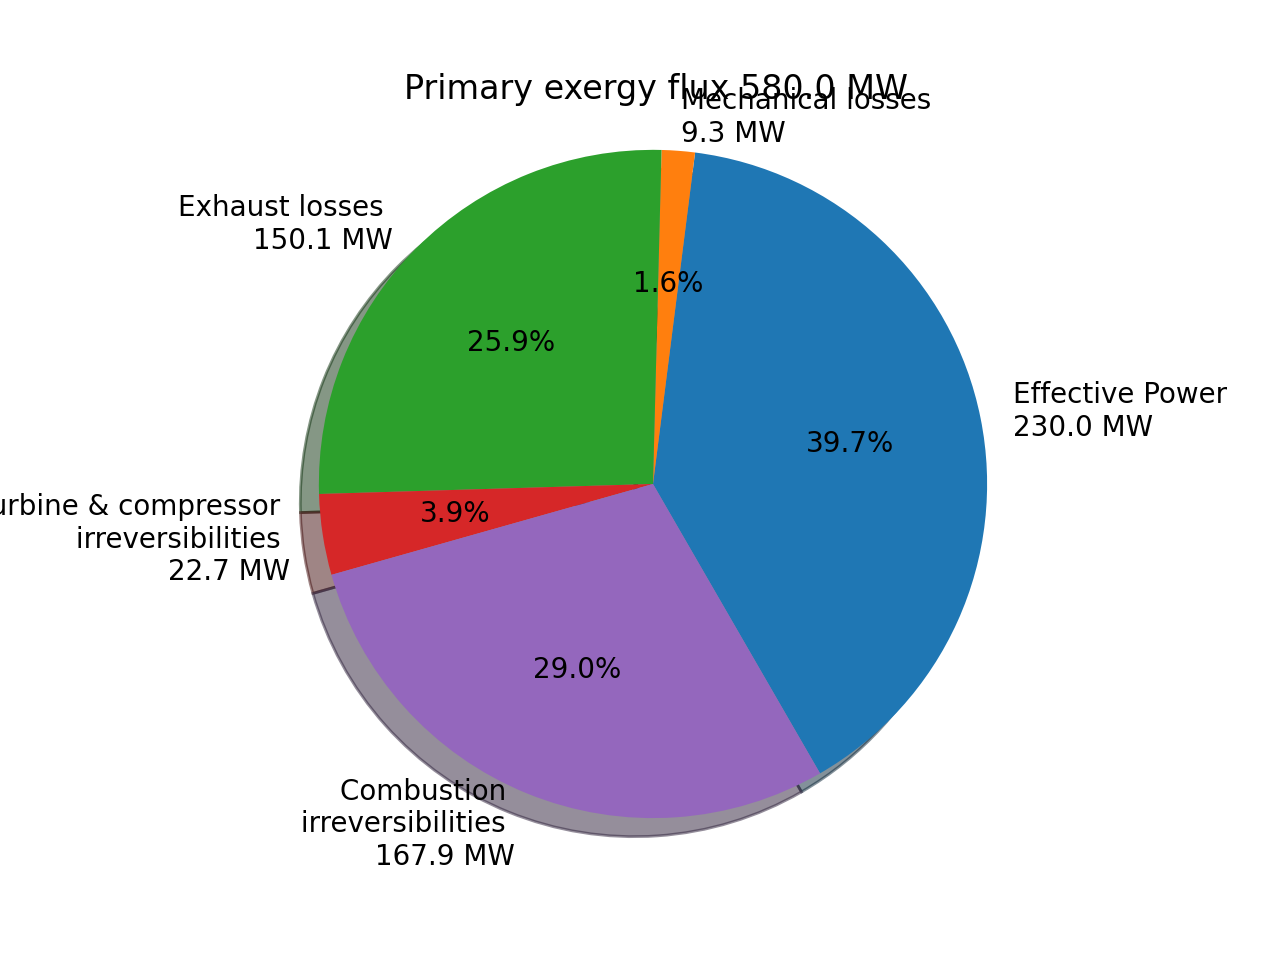
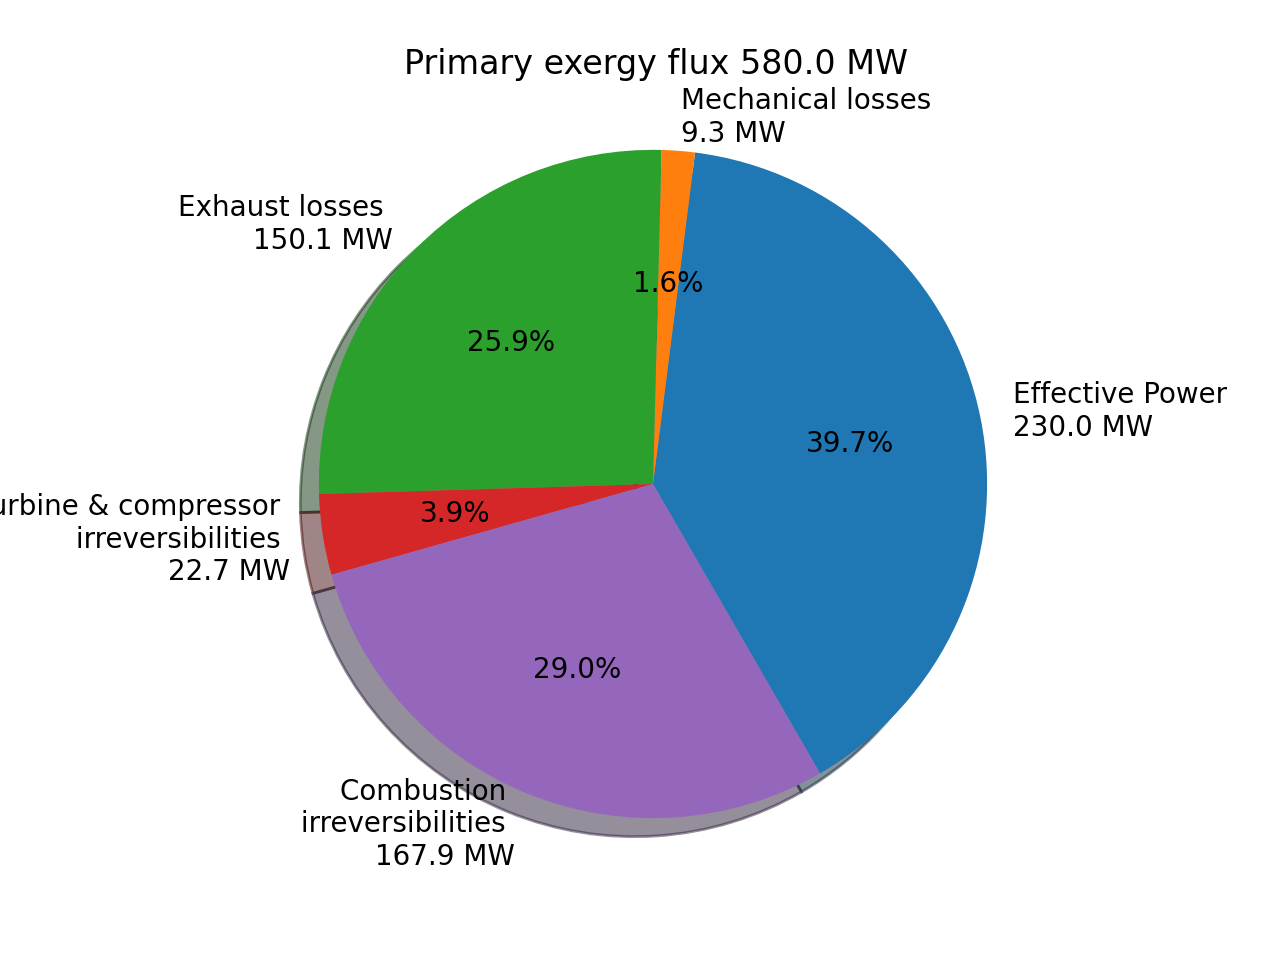
graphs update - exergy title padding + display option implementation

Changed region(s): [[0.3125, 0.0312, 0.7188, 0.125]]

diff --git a/HW2/Python scripts/GT_group_42.py b/HW2/Python scripts/GT_group_42.py
@@ -353,7 +353,7 @@ def gas_turbine(P_e,options,display):
     #explode = (0, 0, 0, 0)
     plt.pie(sizes, labels=labels, autopct='%1.1f%%', shadow=True, startangle=300)
     plt.axis('equal')
-    plt.title("Primary exergy flux " + "%.1f" %(e_c*dotm_f*1e-3) + " MW")
+    plt.title("Primary exergy flux " + "%.1f" %(e_c*dotm_f*1e-3) + " MW", pad=15)
 
 
     p = (p_1, p_2, p_3, p_4) # [Pa]
@@ -447,7 +447,8 @@ def gas_turbine(P_e,options,display):
     fig_Ts_diagram.savefig('IMG/Ts_diag.png', dpi=200)
     fig_hs_diagram.savefig('IMG/hs_diag.png', dpi=200)
 
-    # plt.show()
+    if display:
+        plt.show()
 
 
     # Process output variables - do not modify---------------------------------

diff --git a/HW2/Python scripts/test.py b/HW2/Python scripts/test.py
@@ -22,7 +22,7 @@ def brayton():
     eta_pi_t = .90                  # [-]
     k_mec = .015                    # [-]
     options = p_1, T_1, r, eta_pi_c, T_3, k_cc, eta_pi_t, k_mec
-    display = False
+    display = True
 
     ETA, DATEN, DATEX, DAT, MASSFLOW, COMBUSTION, FIG = gas_turbine(P_e,options,display)
     p,T,h,s,e = DAT
